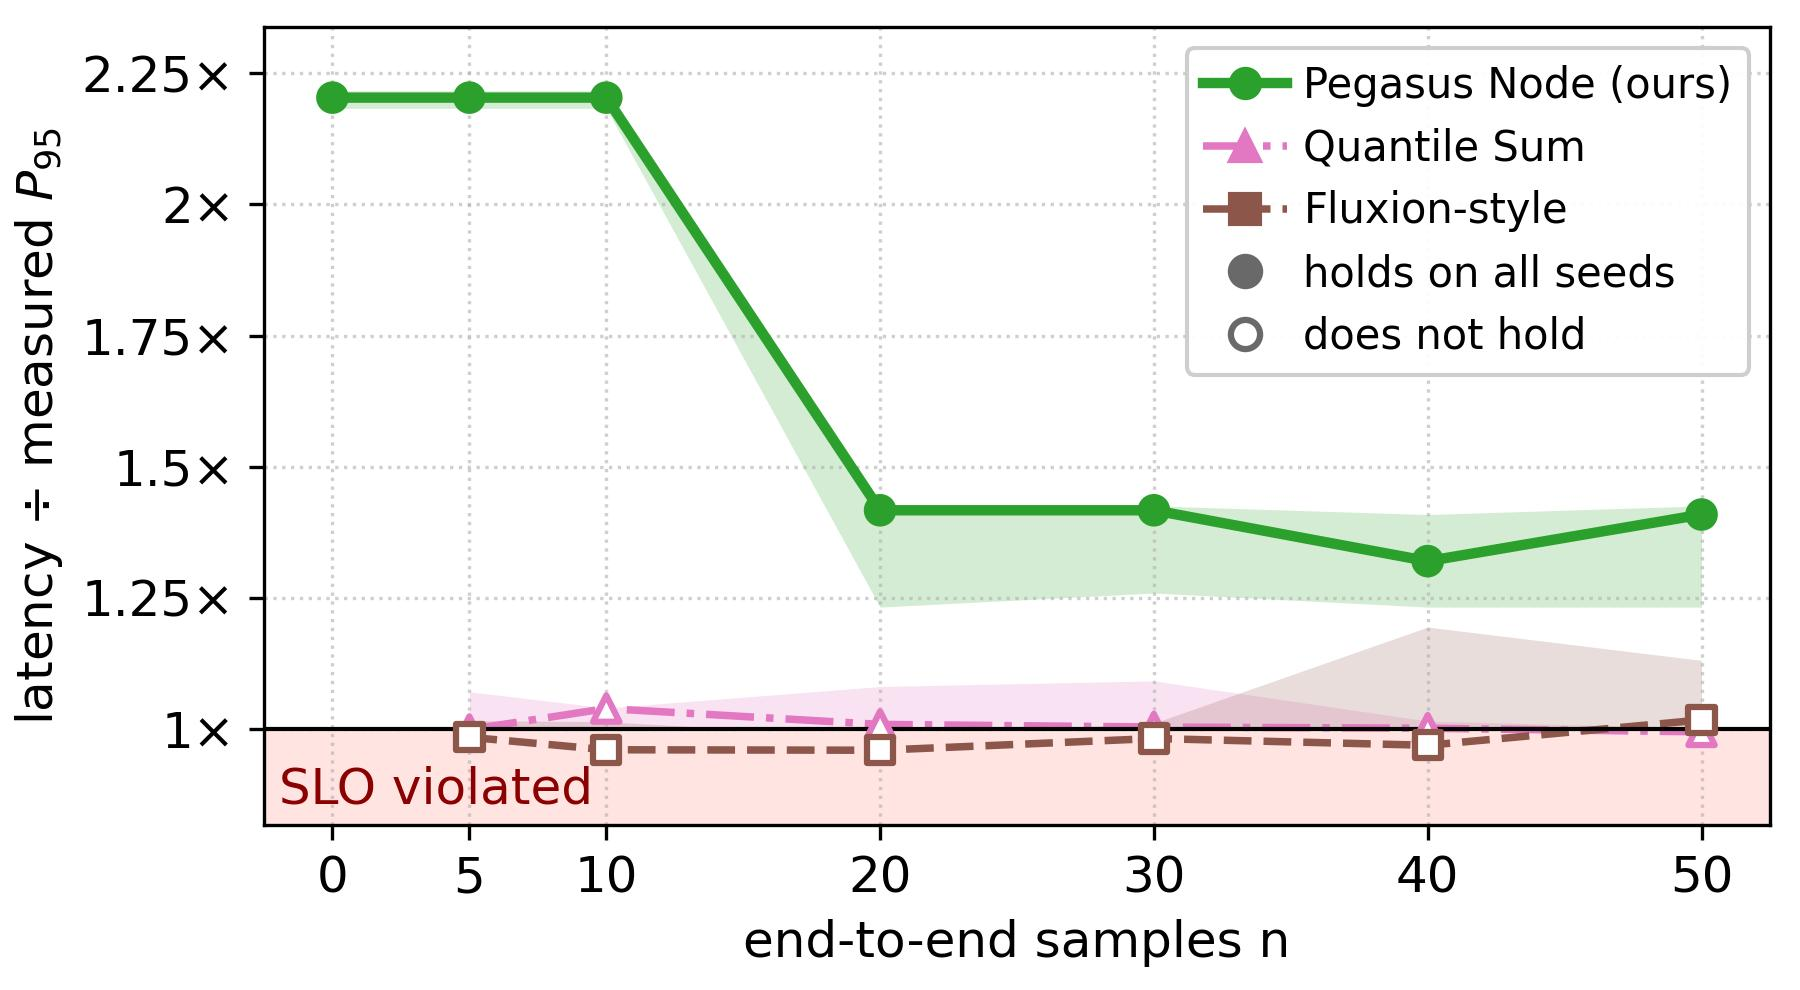
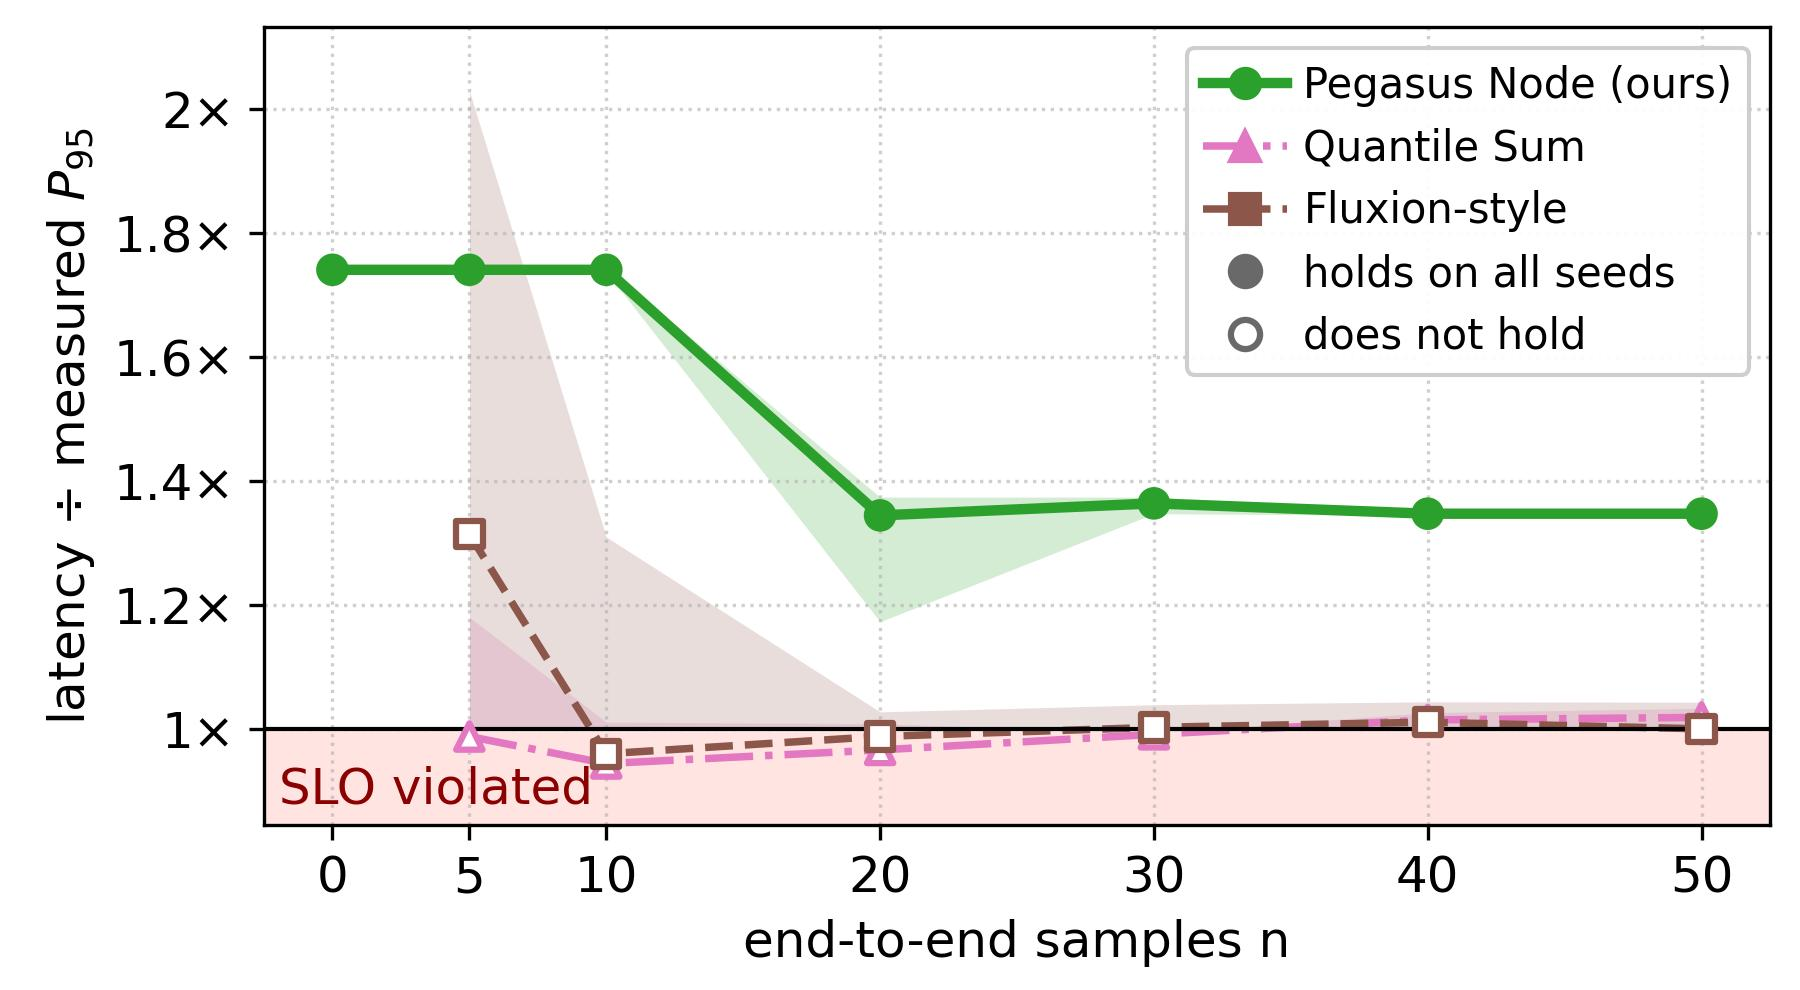
run c1 on the chain vision-1

diff --git a/notebooks/tsc/README.md b/notebooks/tsc/README.md
@@ -14,7 +14,7 @@ modeled on their own.
 | `2c_depth.ipynb` | Evaluation B.3 (varying depth of a map-reduce application: fork-join trees of the services of B.1, why the latency of a tree is the maximum over its leaf-to-root paths, every method applied path by path, balanced trees) on the trees that the second campaign measured (`statics/results_milos_v2/b3/`; `tree_source`, synthetic trees as an option). |
 | `2c_load.ipynb` | Evaluation B.4 (varying load and arrival pattern) on the chain of B.1 that the second campaign measured again under other loads and arrival patterns (`statics/results_milos_v2/b4/`; `data_source`, synthetic data as an option). |
 | `2d_tails_and_percentiles.ipynb` | Evaluation B.5 (varying tail behaviors) and B.6 (varying percentiles). |
-| `2e_finetuning.ipynb` | Evaluation C.1: fine-tuning a bound with end-to-end samples on one chain of B.1 (vision-4, fixed in `C1_CHAIN`, with runs of up to four workers per service held out): the bound of Pegasus Node with its load-aware models (the default of B.1, `load_aware_b4.py`), read from the cache of `2a_base_case.ipynb`, multiplied by one split-conformal factor (below the smallest number of samples at which it exists, the bound stays that of B.1), next to Quantile Sum and Fluxion-style trained on the samples. |
+| `2e_finetuning.ipynb` | Evaluation C.1: fine-tuning a bound with end-to-end samples on one chain of B.1 (vision-1, fixed in `C1_CHAIN`, with runs of up to four workers per service held out): the bound of Pegasus Node with its load-aware models (the default of B.1, `load_aware_b4.py`), read from the cache of `2a_base_case.ipynb`, multiplied by one split-conformal factor (below the smallest number of samples at which it exists, the bound stays that of B.1), next to Quantile Sum and Fluxion-style trained on the samples. |
 | `2f_optimization.ipynb` | Evaluation C.2: choosing a faster configuration of a chain (synthetic data). |
 | `explain_1_why_chernoff_mgf.ipynb` | Why the bounds use moment generating functions and Chernoff bounds, and which alternatives exist. |
 | `explain_2_why_poisson_is_loose.ipynb` | Why the SNC node bound is loose under Poisson arrivals. |
